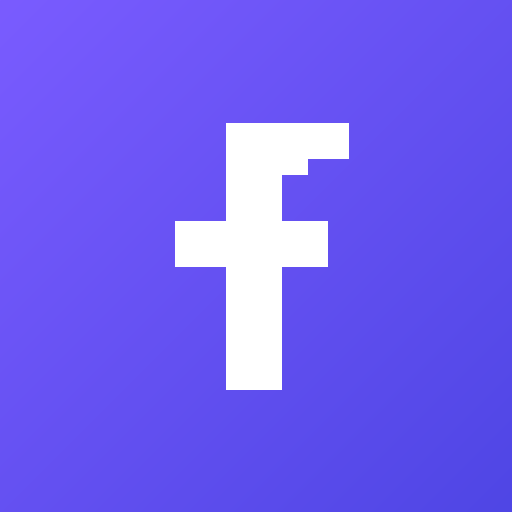
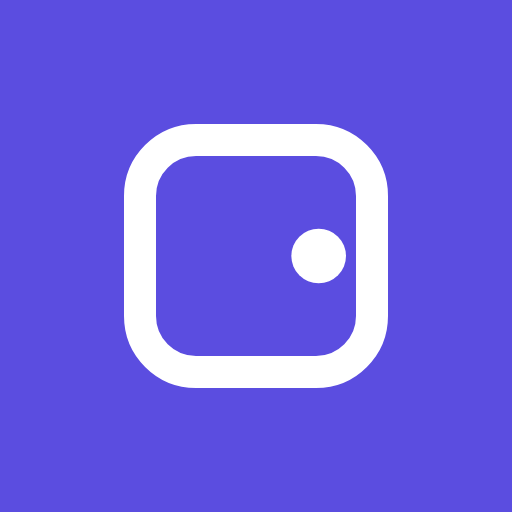
Marca nueva: superficie y punto de contacto
Sustituye la pastilla con la «f» —que repetía el patrón de Facebook— por un
símbolo propio: un perímetro cerrado con el punto donde la pantalla responde al
gesto, el mismo punto que se arrastra para conectar en modo prototipo. Se
aplica en la cabecera, la bienvenida, el favicon y los iconos de la PWA.

Changed region(s): [[0.2188, 0.2188, 0.7812, 0.7812], [0.0, 0.0, 0.4688, 0.4688]]

diff --git a/src/components/Shell.tsx b/src/components/Shell.tsx
@@ -24,9 +24,10 @@ const MORE = [
 export function BrandLockup() {
   return (
     <a className="brand" href={href('/')} aria-label="Forma Studio, ir al workspace">
-      <span className="brand-mark" aria-hidden="true">
-        f
-      </span>
+      <svg className="brand-mark" viewBox="0 0 24 24" aria-hidden="true">
+        <path d="M7.5 3.3h9a4.2 4.2 0 0 1 4.2 4.2v9a4.2 4.2 0 0 1-4.2 4.2h-9a4.2 4.2 0 0 1-4.2-4.2v-9a4.2 4.2 0 0 1 4.2-4.2Z" fill="none" stroke="currentColor" strokeWidth="2.5" strokeLinejoin="round" />
+        <circle cx="16.7" cy="12" r="2.05" fill="currentColor" />
+      </svg>
       <span className="brand-name">forma</span>
       <span className="brand-sub">STUDIO</span>
     </a>

diff --git a/src/styles.css b/src/styles.css
@@ -174,15 +174,10 @@ p {
   flex: none;
 }
 .brand-mark {
-  width: 30px;
-  height: 30px;
-  border-radius: 8px;
-  background: linear-gradient(145deg, #7a5cff 0%, #4f46e5 100%);
-  color: #fff;
-  display: grid;
-  place-items: center;
-  font: italic 800 20px/1 var(--font-ui);
-  box-shadow: inset 0 -2px 0 rgba(0, 0, 0, 0.12);
+  width: 28px;
+  height: 28px;
+  color: var(--accent);
+  flex: none;
 }
 .brand-name {
   font-weight: 700;
